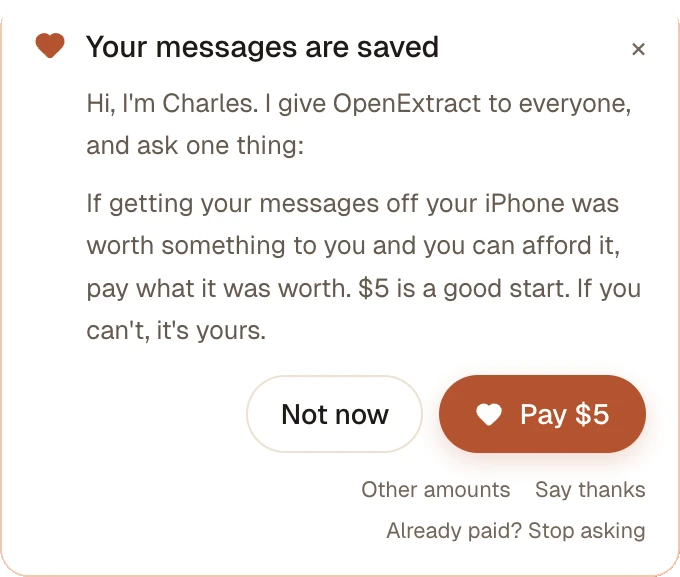
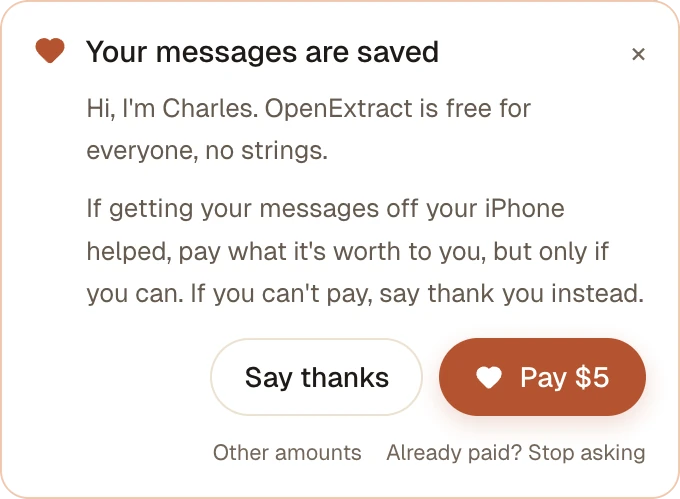
site: the home page shows the new pay card, with Say thanks and Pay $5
PR #275 replaces the card's "Not now" button with "Say thanks" and
rewords its message ("If you can't pay, say thank you instead."). The
home page's screenshot of the card (in the price section and as the
"Then one ask" step under Messages) is retaken from that build, after a
Messages export from the Maren sample backup, and its alt text matches.

"Not now" is gone from the copy too: the card offers a thank-you instead,
and closing it means no more asks until the app is next opened. The
"Already paid" thank-you card didn't change. /privacy's "Not now" line is
fixed in PR #275 itself.

Ship this after PR #275 is released, so the site matches the app people
download.

diff --git a/website/static/index.html b/website/static/index.html
@@ -248,7 +248,7 @@
             <h3 class="pay__h">How paying works</h3>
             <ol class="pay__steps">
               <li><b>Use all of it first.</b> Every feature works from the start. Nothing is locked, and there's no license key.</li>
-              <li><b>The app asks after it works.</b> Once you've saved something, a small card asks if it was worth something to you. "Not now" means not now.</li>
+              <li><b>The app asks after it works.</b> Once you've saved something, a small card asks if it was worth something to you. If you can't pay, you can say thank you instead. Close it, and it won't ask again until you next open the app.</li>
               <li><b>You decide what it was worth.</b> If you can afford it, $5 is a good start.</li>
               <li><b>It's on trust.</b> The app can't see payments. Tell it you've paid and it stops asking. That's all.</li>
             </ol>
@@ -261,7 +261,7 @@
           <figure class="pay__shots">
             <div class="pay__card pay__card--ask">
               <p class="pay__label">After you save something</p>
-              <img src="/img/home/pay-ask-680.webp" width="680" height="577" loading="lazy" alt="The card OpenExtract shows after saving: Your messages are saved. Hi, I'm Charles. I give OpenExtract to everyone, and ask one thing: if getting your messages off your iPhone was worth something to you and you can afford it, pay what it was worth. $5 is a good start. If you can't, it's yours. Buttons: Not now, Pay $5. Links: Other amounts, Say thanks, Already paid? Stop asking." />
+              <img src="/img/home/pay-ask-680.webp" width="680" height="499" loading="lazy" alt="The card OpenExtract shows after saving: Your messages are saved. Hi, I'm Charles. OpenExtract is free for everyone, no strings. If getting your messages off your iPhone helped, pay what it's worth to you, but only if you can. If you can't pay, say thank you instead. Buttons: Say thanks, Pay $5. Links: Other amounts, Already paid? Stop asking." />
             </div>
             <div class="pay__card pay__card--thanks">
               <p class="pay__label">If you tell it you've paid</p>

diff --git a/website/static/js/home.js b/website/static/js/home.js
@@ -80,8 +80,8 @@
   }
   var ASK = { label: 'Then one ask', kind: 'card', thumb: H_ + 'pay-ask-680.webp', img: H_ + 'pay-ask-680.webp',
     title: 'Then the app asks, once',
-    cap: 'Only after your file is saved. If it was worth something to you and you can afford it, pay what it’s worth. If you can’t, it’s yours. “Not now” means not now.',
-    alt: 'The card after saving: Your messages are saved. Hi, I’m Charles. I give OpenExtract to everyone, and ask one thing: if getting your messages off your iPhone was worth something to you and you can afford it, pay what it was worth. $5 is a good start. If you can’t, it’s yours. Buttons: Not now, Pay $5.' };
+    cap: 'Only after your file is saved. If it helped, pay what it’s worth to you, but only if you can. If you can’t pay, say thank you instead. Close it, and it won’t ask again until you next open the app.',
+    alt: 'The card after saving: Your messages are saved. Hi, I’m Charles. OpenExtract is free for everyone, no strings. If getting your messages off your iPhone helped, pay what it’s worth to you, but only if you can. If you can’t pay, say thank you instead. Buttons: Say thanks, Pay $5.' };
   var FLOWS = {
     messages: [
       pick('messages', 'Save conversation', { cap: 'A web page, a PDF to read or print, a spreadsheet or plain text. Then you choose where it goes on your computer.',
